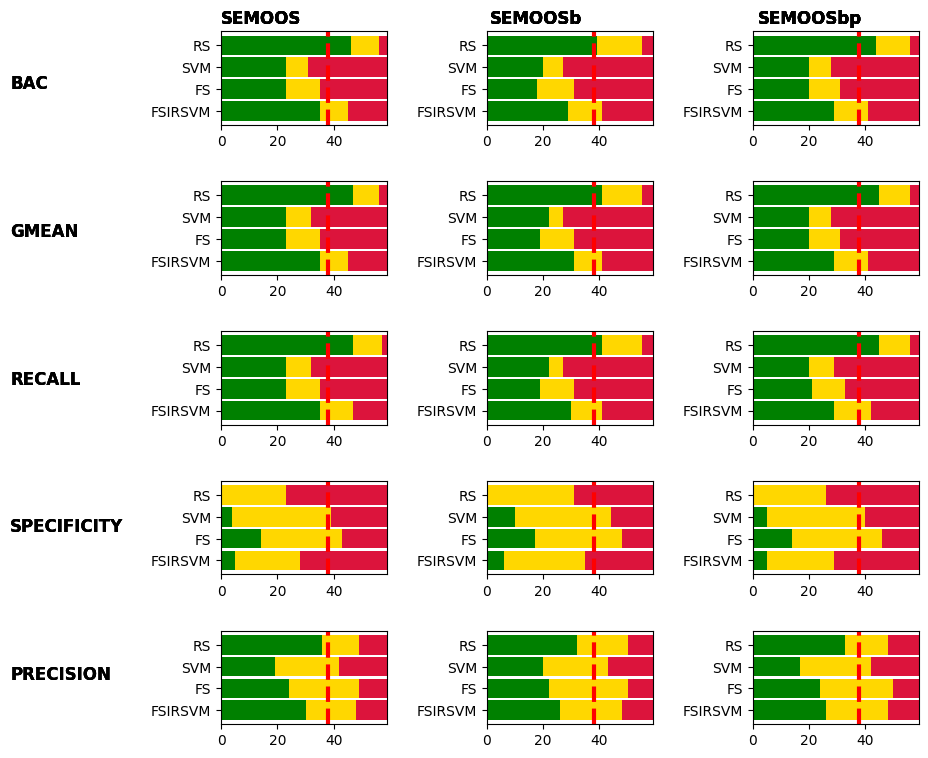
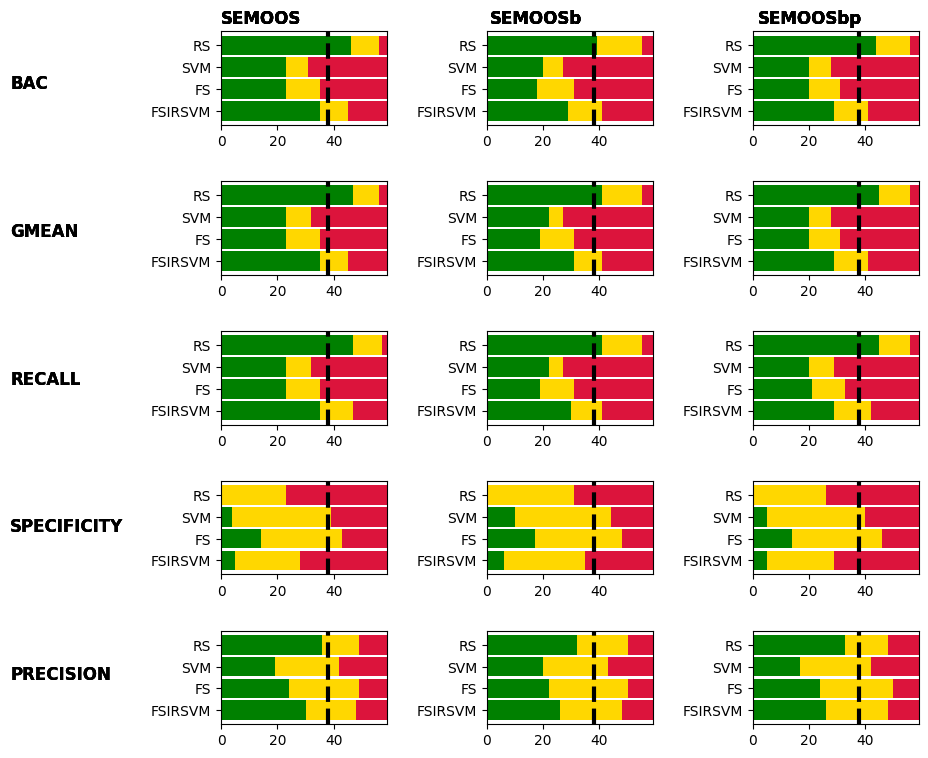
correction

diff --git a/methods/moo_ensemble_bootstrap_pruned.py b/methods/moo_ensemble_bootstrap_pruned.py
@@ -121,7 +121,8 @@ class MooEnsembleSVCbootstrapPruned(BaseEstimator):
                 self.solutions_bs = res.F
                 # Unique solutions from the pareto front is a way to prune the ensemble
                 unique_solutions, unique_indexes = np.unique(self.solutions_bs, return_index=True, axis=0)
-                self.solutions = unique_solutions
+                # self.solutions = unique_solutions
+                self.solutions = self.solutions_bs
 
                 # Pruning based on unique solutions of precision and recall from pareto front
                 if np.shape(unique_indexes)[0] == 1:
@@ -188,7 +189,8 @@ class MooEnsembleSVCbootstrapPruned(BaseEstimator):
 
                 self.solutions_bs = res.F
                 unique_solutions, unique_indexes = np.unique(self.solutions_bs, return_index=True, axis=0)
-                self.solutions = np.append(self.solutions, unique_solutions, axis=0)
+                self.solutions = self.solutions_bs
+                # self.solutions = np.append(self.solutions, unique_solutions, axis=0)
 
                 # Pruning based on unique solutions of precision and recall from pareto front
                 if np.shape(unique_indexes)[0] == 1:

diff --git a/analysis4_9lower.py b/analysis4_9lower.py
@@ -121,7 +121,7 @@ def horizontal_bar_chart():
 # Plot pareto front scatter
 # scatter_pareto_chart(DATASETS_DIR=DATASETS_DIR, n_folds=n_folds, experiment_name="experiment_server/experiment4_9lower", methods=methods, methods_alias=methods_alias)
 # Plot scatter with all methods
-scatter_plot(datasets=datasets, n_folds=n_folds, experiment_name="experiment_server/experiment4_9lower", methods=methods, raw_data=data_np)
+# scatter_plot(datasets=datasets, n_folds=n_folds, experiment_name="experiment_server/experiment4_9lower", methods=methods, raw_data=data_np)
 
 # Wilcoxon ranking horizontally- statistic test for methods: SEMOOS
 # pairs_metrics_multi(method_names=methods_alias, data_np=data_np, experiment_name="experiment_server/experiment4_9lower", dataset_names=datasets, metrics=metrics_alias, filename="ex4_ranking_plot", ref_method=methods_alias[0])

diff --git a/experiment1_9higher_part1.py b/experiment1_9higher_part1.py
@@ -22,8 +22,8 @@ from methods.feature_selection_clf import FeatueSelectionClf
 
 base_estimator = SVC(probability=True)
 methods = {
-    "MooEnsembleSVC": MooEnsembleSVC(base_classifier=base_estimator),
-    "MooEnsembleSVCbootstrap": MooEnsembleSVCbootstrap(base_classifier=base_estimator),
+    # "MooEnsembleSVC": MooEnsembleSVC(base_classifier=base_estimator),
+    # "MooEnsembleSVCbootstrap": MooEnsembleSVCbootstrap(base_classifier=base_estimator),
     "MooEnsembleSVCbootstrapPruned": MooEnsembleSVCbootstrapPruned(base_classifier=base_estimator),
     # "RandomSubspace": RandomSubspaceEnsemble(base_classifier=base_estimator),
     # "SVM": SVC(),

diff --git a/experiment2_9higher_part2.py b/experiment2_9higher_part2.py
@@ -22,8 +22,8 @@ from methods.feature_selection_clf import FeatueSelectionClf
 
 base_estimator = SVC(probability=True)
 methods = {
-    "MooEnsembleSVC": MooEnsembleSVC(base_classifier=base_estimator),
-    "MooEnsembleSVCbootstrap": MooEnsembleSVCbootstrap(base_classifier=base_estimator),
+    # "MooEnsembleSVC": MooEnsembleSVC(base_classifier=base_estimator),
+    # "MooEnsembleSVCbootstrap": MooEnsembleSVCbootstrap(base_classifier=base_estimator),
     "MooEnsembleSVCbootstrapPruned": MooEnsembleSVCbootstrapPruned(base_classifier=base_estimator),
     # "RandomSubspace": RandomSubspaceEnsemble(base_classifier=base_estimator),
     # "SVM": SVC(),

diff --git a/experiment3_9higher_part3.py b/experiment3_9higher_part3.py
@@ -22,8 +22,8 @@ from methods.feature_selection_clf import FeatueSelectionClf
 
 base_estimator = SVC(probability=True)
 methods = {
-    "MooEnsembleSVC": MooEnsembleSVC(base_classifier=base_estimator),
-    "MooEnsembleSVCbootstrap": MooEnsembleSVCbootstrap(base_classifier=base_estimator),
+    # "MooEnsembleSVC": MooEnsembleSVC(base_classifier=base_estimator),
+    # "MooEnsembleSVCbootstrap": MooEnsembleSVCbootstrap(base_classifier=base_estimator),
     "MooEnsembleSVCbootstrapPruned": MooEnsembleSVCbootstrapPruned(base_classifier=base_estimator),
     # "RandomSubspace": RandomSubspaceEnsemble(base_classifier=base_estimator),
     # "SVM": SVC(),

diff --git a/experiment4_9lower.py b/experiment4_9lower.py
@@ -22,8 +22,8 @@ from methods.feature_selection_clf import FeatueSelectionClf
 
 base_estimator = SVC(probability=True)
 methods = {
-    "MooEnsembleSVC": MooEnsembleSVC(base_classifier=base_estimator),
-    "MooEnsembleSVCbootstrap": MooEnsembleSVCbootstrap(base_classifier=base_estimator),
+    # "MooEnsembleSVC": MooEnsembleSVC(base_classifier=base_estimator),
+    # "MooEnsembleSVCbootstrap": MooEnsembleSVCbootstrap(base_classifier=base_estimator),
     "MooEnsembleSVCbootstrapPruned": MooEnsembleSVCbootstrapPruned(base_classifier=base_estimator),
     # "RandomSubspace": RandomSubspaceEnsemble(base_classifier=base_estimator),
     # "SVM": SVC(),

diff --git a/utils/wilcoxon_ranking_grid.py b/utils/wilcoxon_ranking_grid.py
@@ -122,7 +122,7 @@ def pairs_metrics_multi_grid(method_names, data_np, experiment_name, dataset_nam
                     critical_difference, 0, 1, linestyle="--", linewidth=3, color="black")
             else:
                 axes[index_j, index_i].axvline(
-                    critical_difference, 0, 1, linestyle="--", linewidth=3, color="red")
+                    critical_difference, 0, 1, linestyle="--", linewidth=3, color="black")
 
     if not os.path.exists("results/%s/ranking/" % (experiment_name)):
         os.makedirs("results/%s/ranking/" % (experiment_name))

diff --git a/utils/wilcoxon_ranking_grid_all.py b/utils/wilcoxon_ranking_grid_all.py
@@ -126,7 +126,7 @@ def pairs_metrics_multi_grid_all(method_names, data_np, experiment_name, dataset
                     critical_difference, 0, 1, linestyle="--", linewidth=3, color="black")
             else:
                 axes[index_j, index_i].axvline(
-                    critical_difference, 0, 1, linestyle="--", linewidth=3, color="red")
+                    critical_difference, 0, 1, linestyle="--", linewidth=3, color="black")
 
     if not os.path.exists("results/%s/ranking/" % (experiment_name)):
         os.makedirs("results/%s/ranking/" % (experiment_name))
